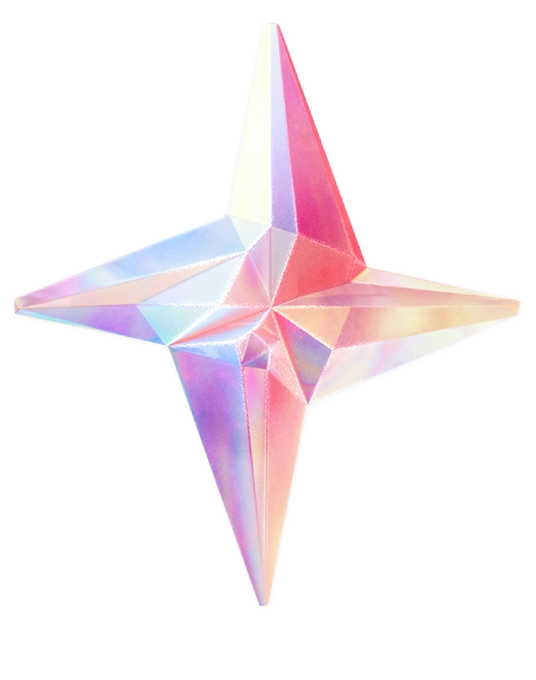
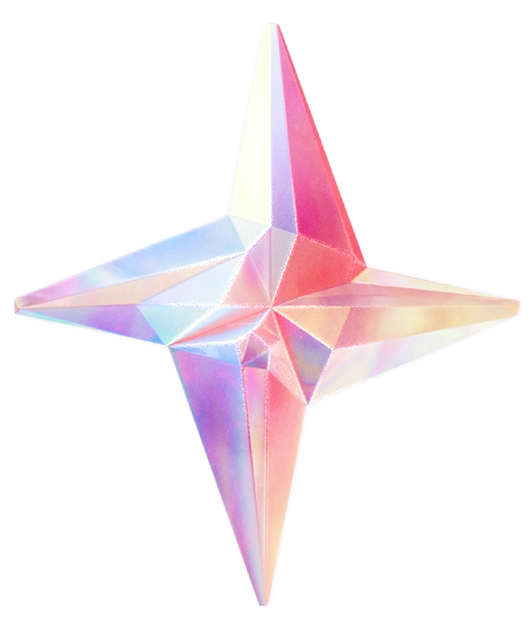
Update images & update  compatibility with pygbag

Changed region(s): [[0.0301, 0.0298, 0.9944, 0.9545], [0.6026, 0.2386, 0.6328, 0.2684]]

diff --git a/main.py b/main.py
@@ -16,11 +16,11 @@ next(reader)  # skip header row
 
 vocab = []
 for row in reader:
-    if len(row) >= 3:
+    if len(row) >= 4:
         vocab.append({
             "english": row[0],
             "japanese": row[1],
-            "romaji":  row[2],
+            "romaji":  row[3],
         })
 
 pygame.display.set_caption("Gravity")
@@ -28,28 +28,37 @@ os.environ['SDL_VIDEO_WINDOW_POS'] = '100,100'  # positions window on screen
 
 pygame.init()
 
+BASE_DIR = os.path.dirname(__file__)
 TERMS_PER_LEVEL         = 7
 BASE_SPEED              = 30
 SPEED_INCREMENT         = 20
 MAX_ASTEROIDS_ON_SCREEN = 3
-SCREEN_WIDTH  = 1100
-SCREEN_HEIGHT = 700
+SCREEN_WIDTH  = 736
+SCREEN_HEIGHT = 1000
 os.environ['SDL_VIDEO_CENTERED'] = '1' # centers window on screen
 screen = pygame.display.set_mode((SCREEN_WIDTH, SCREEN_HEIGHT))
 clock  = pygame.time.Clock()
-font       = pygame.font.SysFont("hiragino sans gb", 30)
-small_font = pygame.font.SysFont("hiragino sans gb", 12)  # common on Mac for Japanese font
-bg_img = pygame.image.load("gravity-game-creation\Images\ppulbatu_background.jpg").convert()
+font       = pygame.font.SysFont("hiragino sans gb", 18)
+small_font = pygame.font.SysFont("hiragino sans gb", 20)  # common on Mac for Japanese font
+input_font  = pygame.font.SysFont("hiragino sans gb", 18)
+
+# images
+bg_img = pygame.image.load(os.path.join(BASE_DIR, "Images/ppulbatu_background.jpg")).convert()
 bg_img = pygame.transform.scale(bg_img, (SCREEN_WIDTH, SCREEN_HEIGHT))
 
 asteroid_imgs = [
-    pygame.transform.scale(pygame.image.load("gravity-game-creation\Images\txt_stars_1.jpg").convert_alpha(), (80, 80)),
-    pygame.transform.scale(pygame.image.load("gravity-game-creation\Images\txt_stars_2.jpg").convert_alpha(), (80, 80)),
-    pygame.transform.scale(pygame.image.load("gravity-game-creation\Images\txt_stars_3.jpg").convert_alpha(), (80, 80)),
+    pygame.transform.scale(pygame.image.load(os.path.join(BASE_DIR, "Images/txt_stars_1.jpg")).convert_alpha(), (200, 200)),
+    pygame.transform.scale(pygame.image.load(os.path.join(BASE_DIR, "Images/txt_stars_2.jpg")).convert_alpha(), (200, 200)),
+    pygame.transform.scale(pygame.image.load(os.path.join(BASE_DIR, "Images/txt_stars_3.jpg")).convert_alpha(), (200, 200)),
 ]
-icon_img = pygame.image.load("gravity-game-creation\Images\txt_logo_v1.jpg").convert_alpha()
-icon_img = pygame.transform.scale(icon_img, (25, 25))
 
+#asteroid_img = pygame.transform.scale(pygame.image.load(os.path.join(BASE_DIR, "Images/star_asteroid.jpeg")).convert_alpha(), (80, 80))
+
+icon_img = pygame.image.load(os.path.join(BASE_DIR, "Images/txt_logo_v3.png")).convert_alpha()
+icon_img = pygame.transform.scale(icon_img, (180, 90))
+
+
+# defining the score
 class Score:
     def __init__(self):
         self.points    = 0
@@ -125,27 +134,29 @@ def spawn():
     asteroids.append({ # asteroid logic
         "shown":  card["shown"],
         "answer": card["answer"],
-        "x":      random.randint(100, 900),
+        "x":      random.randint(100, SCREEN_WIDTH - 100),
         "y":      -50.0,
         "speed":  BASE_SPEED + SPEED_INCREMENT * (level - 1),
         "red":    red,
-        "img":    random.choice(asteroid_imgs), 
+        "img":    pygame.transform.rotate(random.choice(asteroid_imgs), random.randint(0, 360)), #random.choice(asteroid_imgs)
     })
 
 # ── Game loop ─────────────────────────────────────────────────────────────────
-pygame.key.start_text_input()
-pygame.key.set_text_input_rect(pygame.Rect(0, 740, SCREEN_WIDTH, 60))  # helps support Japanese typing
+pygame.key.start_text_input() # helps support Japanese typing
+pygame.key.set_text_input_rect(pygame.Rect(0, 740, SCREEN_WIDTH, 40))  # helps support Japanese typing
 
 run = True
 
 async def main_loop():
+    global run, state, input_text, level, cleared, spawn_timer, deck  # need globals since they're modified
+
     while run:
         delta_time = clock.tick(60) / 1000
 
         for event in pygame.event.get():
             if event.type == pygame.QUIT:
                 run = False
-            if event.type == pygame.TEXTINPUT and state == "playing": 
+            if event.type == pygame.TEXTINPUT and state == "playing":
                 input_text += event.text
             if event.type == pygame.KEYDOWN and state == "playing":
                 if event.key == pygame.K_RETURN:
@@ -185,29 +196,33 @@ async def main_loop():
                     else:
                         retry.append({"shown": ast["shown"], "answer": ast["answer"]})
                     asteroids.remove(ast)
+
             if not deck and not retry and not asteroids:
                 random.shuffle(cards)
                 deck = cards.copy()
-    asyncio.run(main_loop())
 
-    # ── Draw ──────────────────────────────────────────────────────────────────
+        # ── Draw ──────────────────────────────────────────────────────────
+        screen.blit(bg_img, (0, 0)) # background image add
 
-    screen.blit(bg_img, (0, 0))
+        for ast in asteroids:
+            img_rect = ast["img"].get_rect(center=(int(ast["x"]), int(ast["y"])))
+            screen.blit(ast["img"], img_rect)
+            t = small_font.render(ast["shown"], True, (0, 0, 0))
+            screen.blit(t, (int(ast["x"]) - t.get_width() // 2, int(ast["y"]) - t.get_height() // 2))
 
-    for ast in asteroids:
-        img_rect = ast["img"].get_rect(center=(int(ast["x"]), int(ast["y"])))
-        screen.blit(ast["img"], img_rect)
-        t = small_font.render(ast["shown"], True, (0, 0, 0))
-        screen.blit(t, (int(ast["x"]) - t.get_width() // 2, int(ast["y"]) - t.get_height() // 2 + 28))
+        pygame.draw.rect(screen, (30, 30, 60), (0, SCREEN_HEIGHT - 30, SCREEN_WIDTH, 100)) # for input bar color
+        screen.blit(input_font.render(f"Answer: {input_text}|", True, (255, 255, 255)), # for text input bar font
+            (20, SCREEN_HEIGHT - 25))
+        screen.blit(icon_img, (10, 10))
+        score_text = font.render(f"Score: {score.points}", True, (255, 255, 255))
+        screen.blit(score_text, (SCREEN_WIDTH - score_text.get_width() - 40,
+                         40))
 
-    pygame.draw.rect(screen, (30, 30, 60), (0, 640, SCREEN_WIDTH, 60))
-    screen.blit(font.render(f"Answer: {input_text}|", True, (255, 255, 255)), (20, 655)) # input text 
-    screen.blit(icon_img, (10, 10))
-    screen.blit(font.render(f"Score: {score.points}  Level: {level}", True, (255, 255, 255)), (40, 10))
+        if state == "dead":
+            screen.blit(font.render("GAME OVER", True, (220, 80, 80)), (450, 380))
 
-    if state == "dead":
-        screen.blit(font.render("GAME OVER", True, (220, 80, 80)), (450, 380))
+        pygame.display.update()
+        await asyncio.sleep(0)  # this line must be at the end of the loop for pygbag
 
-    pygame.display.update()
-
+asyncio.run(main_loop())
 pygame.quit()
